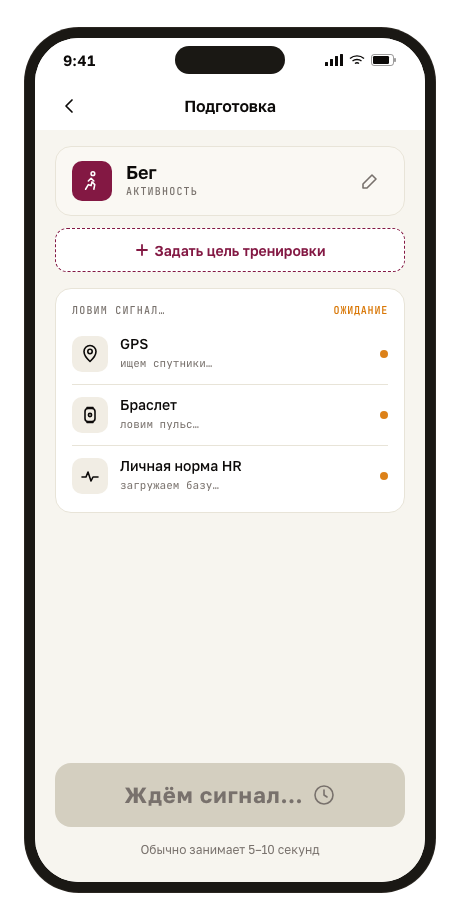
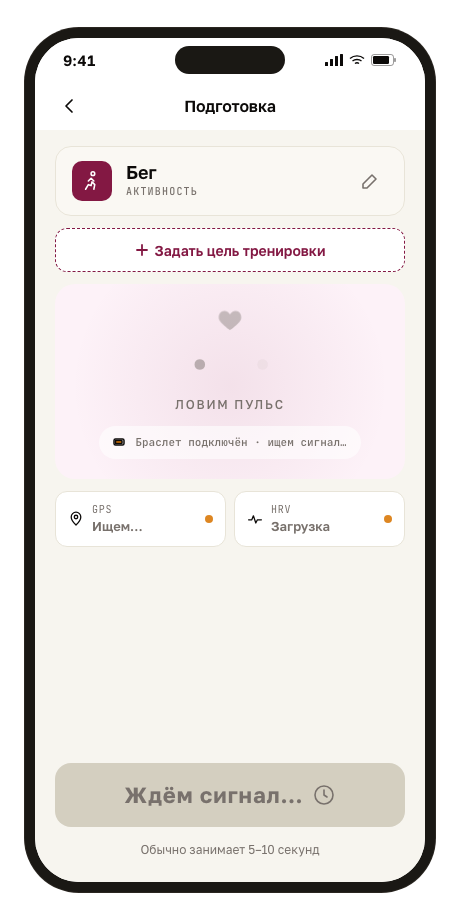
Задача #05 доп · Pulse Hero на 02b (SEARCHING + READY)
По референсу Whoop + фидбеку Дымова: перед стартом должен быть виден
текущий пульс — это обязательное условие. Реализовано как pulse-hero
компонент:

READY state (node 216:2):
- Wine tint background с radial glow
- Heart icon (wine, с pulse-анимацией)
- Огромное число BPM 72 (JetBrains Mono, 72px)
- Подпись 'УД · МИН'
- Мета-пилл 'Браслет 84% · ~5 ч' (с battery indicator)
- Compact GPS + HRV status pills (2 колонки вместо list)

SEARCHING state (node 1:13):
- Тот же pulse-hero, но в placeholder-state
- Dots animation вместо числа (···)
- 'Ловим пульс' + 'Браслет подключён · ищем сигнал…'

Layout стал более focused на primary metric (пульс) вместо
трёхстрочного readiness-list. Ссылки на referенс Whoop + скриншоты
PM в session logs.

diff --git a/docs_web/wireframes/m3/mobile-training-start-v0.html b/docs_web/wireframes/m3/mobile-training-start-v0.html
@@ -375,6 +375,101 @@
       100% { transform: scale(1.25); opacity: 0; }
     }
 
+    /* Pulse Hero — большой BPM display (Whoop-inspired, adapted to Pulse-DS) */
+    .pulse-hero {
+      position: relative;
+      background: var(--primary-soft);
+      border-radius: 20px;
+      padding: 24px 20px 20px;
+      display: flex;
+      flex-direction: column;
+      align-items: center;
+      gap: 4px;
+      overflow: hidden;
+    }
+    .pulse-hero::before {
+      /* Decorative radial glow */
+      content: '';
+      position: absolute;
+      top: -30%;
+      left: 50%;
+      transform: translateX(-50%);
+      width: 320px; height: 320px;
+      background: radial-gradient(circle, rgba(131, 24, 67, 0.08) 0%, transparent 70%);
+      pointer-events: none;
+    }
+    .pulse-hero .heart-icon {
+      color: var(--primary);
+      z-index: 1;
+      animation: heart-beat 1.4s ease-in-out infinite;
+    }
+    @keyframes heart-beat {
+      0%, 100% { transform: scale(1); }
+      20% { transform: scale(1.15); }
+      40% { transform: scale(1); }
+      60% { transform: scale(1.08); }
+      80% { transform: scale(1); }
+    }
+    .pulse-hero .bpm-num {
+      font-family: 'JetBrains Mono', ui-monospace, monospace;
+      font-weight: 700;
+      font-size: 72px;
+      letter-spacing: -0.04em;
+      color: var(--foreground);
+      line-height: 1;
+      font-variant-numeric: tabular-nums;
+      z-index: 1;
+    }
+    .pulse-hero .bpm-unit {
+      font-family: 'Golos Text', sans-serif;
+      font-weight: 500;
+      font-size: 12px;
+      letter-spacing: 0.15em;
+      text-transform: uppercase;
+      color: var(--muted-foreground);
+      z-index: 1;
+    }
+    .pulse-hero .bracelet-meta {
+      display: flex;
+      align-items: center;
+      gap: 8px;
+      padding: 8px 14px;
+      background: rgba(255, 255, 255, 0.6);
+      border-radius: 9999px;
+      margin-top: 8px;
+      z-index: 1;
+    }
+    .pulse-hero .bracelet-meta .mono {
+      font-size: 11px;
+      color: var(--foreground);
+      font-weight: 500;
+    }
+
+    /* Searching state — pulse-hero placeholder */
+    .pulse-hero.searching .bpm-num {
+      color: var(--muted-foreground);
+      font-size: 56px;
+    }
+    .pulse-hero.searching .heart-icon {
+      color: var(--muted-foreground);
+      opacity: 0.4;
+    }
+    .pulse-hero.searching .dots {
+      display: inline-block;
+    }
+    .pulse-hero.searching .dots span {
+      display: inline-block;
+      opacity: 0;
+      animation: dots-blink 1.4s infinite;
+    }
+    .pulse-hero.searching .dots span:nth-child(1) { animation-delay: 0s; }
+    .pulse-hero.searching .dots span:nth-child(2) { animation-delay: 0.2s; }
+    .pulse-hero.searching .dots span:nth-child(3) { animation-delay: 0.4s; }
+    @keyframes dots-blink {
+      0%, 100% { opacity: 0; }
+      50% { opacity: 1; }
+    }
+
     /* Goal Modal — bottom sheet */
     .sheet-backdrop {
       position: absolute;
@@ -701,45 +796,36 @@
               Задать цель тренировки
             </button>
 
-            <div style="background:var(--card); border:1px solid var(--border); border-radius:16px; padding: 4px 16px; margin-top:4px;">
-              <div style="padding: 10px 0 6px; display:flex; align-items:center; justify-content:space-between;">
-                <span class="eyebrow">Ловим сигнал…</span>
-                <span class="mono" style="font-size:10px; color:var(--warning); font-weight:600; letter-spacing:0.08em;">ОЖИДАНИЕ</span>
+            <!-- Pulse Hero — searching placeholder -->
+            <div class="pulse-hero searching">
+              <svg class="heart-icon" width="26" height="24" viewBox="0 0 24 24" fill="currentColor" aria-hidden="true">
+                <path d="M12 21s-7-4.5-9.5-9C1 8.5 3 4 7 4c2 0 4 1.5 5 3 1-1.5 3-3 5-3 4 0 6 4.5 4.5 8-2.5 4.5-9.5 9-9.5 9z"/>
+              </svg>
+              <div class="bpm-num"><span class="dots"><span>·</span><span>·</span><span>·</span></span></div>
+              <div class="bpm-unit">Ловим пульс</div>
+              <div class="bracelet-meta">
+                <svg width="14" height="14" viewBox="0 0 14 14" fill="none" stroke="var(--foreground)" stroke-width="1.5" stroke-linecap="round"><rect x="1" y="4" width="10" height="6" rx="1.5"/><rect x="2.5" y="5.5" width="6.5" height="3" rx="0.5" fill="var(--warning)"/></svg>
+                <span class="mono" style="color:var(--muted-foreground);">Браслет подключён · ищем сигнал…</span>
               </div>
+            </div>
 
-              <!-- GPS row -->
-              <div class="status-row">
-                <div class="status-icon" aria-hidden="true">
-                  <svg width="20" height="20" viewBox="0 0 20 20" fill="none" stroke="currentColor" stroke-width="1.6" stroke-linecap="round" stroke-linejoin="round"><path d="M10 17.5s-6-5.5-6-10a6 6 0 1 1 12 0c0 4.5-6 10-6 10z"/><circle cx="10" cy="7.5" r="2.2"/></svg>
+            <!-- Compact status pills — GPS + HRV baseline (waiting) -->
+            <div style="display:flex; gap:8px;">
+              <div style="flex:1; background:var(--card); border:1px solid var(--border); border-radius:12px; padding:10px 12px; display:flex; align-items:center; gap:8px;">
+                <svg width="16" height="16" viewBox="0 0 20 20" fill="none" stroke="var(--foreground)" stroke-width="1.6" stroke-linecap="round" stroke-linejoin="round"><path d="M10 17.5s-6-5.5-6-10a6 6 0 1 1 12 0c0 4.5-6 10-6 10z"/><circle cx="10" cy="7.5" r="2.2"/></svg>
+                <div style="flex:1;">
+                  <div class="mono" style="font-size:10px; color:var(--muted-foreground); letter-spacing:0.08em; text-transform:uppercase;">GPS</div>
+                  <div style="font-family:'Golos Text'; font-weight:600; font-size:13px; color:var(--muted-foreground);">Ищем…</div>
                 </div>
-                <div style="flex:1; min-width:0;">
-                  <div style="font-family:'Golos Text'; font-weight:500; font-size:14px; line-height:1.2;">GPS</div>
-                  <div class="mono" style="font-size:11px; color:var(--muted-foreground); margin-top:2px;">ищем спутники…</div>
-                </div>
-                <span class="status-dot wait" aria-label="Ожидание"></span>
+                <span class="status-dot wait"></span>
               </div>
-
-              <!-- Браслет row — животик анимация -->
-              <div class="status-row">
-                <div class="status-icon" aria-hidden="true">
-                  <svg width="20" height="20" viewBox="0 0 20 20" fill="none" stroke="currentColor" stroke-width="1.6" stroke-linecap="round" stroke-linejoin="round"><rect x="5" y="3.5" width="10" height="13" rx="3"/><path d="M7 2.5h6M7 17.5h6"/><circle cx="10" cy="10" r="1.6"/></svg>
+              <div style="flex:1; background:var(--card); border:1px solid var(--border); border-radius:12px; padding:10px 12px; display:flex; align-items:center; gap:8px;">
+                <svg width="16" height="16" viewBox="0 0 20 20" fill="none" stroke="var(--foreground)" stroke-width="1.6" stroke-linecap="round" stroke-linejoin="round"><path d="M2 11h4l2-5 3 9 2-4h5"/></svg>
+                <div style="flex:1;">
+                  <div class="mono" style="font-size:10px; color:var(--muted-foreground); letter-spacing:0.08em; text-transform:uppercase;">HRV</div>
+                  <div style="font-family:'Golos Text'; font-weight:600; font-size:13px; color:var(--muted-foreground);">Загрузка</div>
                 </div>
-                <div style="flex:1; min-width:0;">
-                  <div style="font-family:'Golos Text'; font-weight:500; font-size:14px; line-height:1.2;">Браслет</div>
-                  <div class="mono" style="font-size:11px; color:var(--muted-foreground); margin-top:2px;">ловим пульс…</div>
-                </div>
-                <span class="status-dot wait" aria-label="Ожидание"></span>
-              </div>
-
-              <div class="status-row" style="padding-bottom:14px;">
-                <div class="status-icon" aria-hidden="true">
-                  <svg width="20" height="20" viewBox="0 0 20 20" fill="none" stroke="currentColor" stroke-width="1.6" stroke-linecap="round" stroke-linejoin="round"><path d="M2 11h4l2-5 3 9 2-4h5"/></svg>
-                </div>
-                <div style="flex:1; min-width:0;">
-                  <div style="font-family:'Golos Text'; font-weight:500; font-size:14px; line-height:1.2;">Личная норма HR</div>
-                  <div class="mono" style="font-size:11px; color:var(--muted-foreground); margin-top:2px;">загружаем базу…</div>
-                </div>
-                <span class="status-dot wait" aria-label="Ожидание"></span>
+                <span class="status-dot wait"></span>
               </div>
             </div>
 
@@ -805,43 +891,36 @@
               Задать цель тренировки
             </button>
 
-            <div style="background:var(--card); border:1px solid var(--border); border-radius:16px; padding: 4px 16px; margin-top:4px;">
-              <div style="padding: 10px 0 6px; display:flex; align-items:center; justify-content:space-between;">
-                <span class="eyebrow">Готовность</span>
-                <span class="mono" style="font-size:10px; color:var(--success); font-weight:600; letter-spacing:0.08em;">ГОТОВО</span>
+            <!-- Pulse Hero — большой live BPM display -->
+            <div class="pulse-hero">
+              <svg class="heart-icon" width="26" height="24" viewBox="0 0 24 24" fill="currentColor" aria-hidden="true">
+                <path d="M12 21s-7-4.5-9.5-9C1 8.5 3 4 7 4c2 0 4 1.5 5 3 1-1.5 3-3 5-3 4 0 6 4.5 4.5 8-2.5 4.5-9.5 9-9.5 9z"/>
+              </svg>
+              <div class="bpm-num">72</div>
+              <div class="bpm-unit">уд · мин</div>
+              <div class="bracelet-meta">
+                <svg width="14" height="14" viewBox="0 0 14 14" fill="none" stroke="var(--foreground)" stroke-width="1.5" stroke-linecap="round"><rect x="1" y="4" width="10" height="6" rx="1.5"/><rect x="2.5" y="5.5" width="6.5" height="3" rx="0.5" fill="var(--success)"/><rect x="11.5" y="5.5" width="1.5" height="3" rx="0.5" fill="var(--foreground)"/></svg>
+                <span class="mono">Браслет 84% · ~5 ч</span>
               </div>
+            </div>
 
-              <div class="status-row">
-                <div class="status-icon" aria-hidden="true">
-                  <svg width="20" height="20" viewBox="0 0 20 20" fill="none" stroke="currentColor" stroke-width="1.6" stroke-linecap="round" stroke-linejoin="round"><path d="M10 17.5s-6-5.5-6-10a6 6 0 1 1 12 0c0 4.5-6 10-6 10z"/><circle cx="10" cy="7.5" r="2.2"/></svg>
+            <!-- Compact status pills — GPS + HRV baseline -->
+            <div style="display:flex; gap:8px;">
+              <div style="flex:1; background:var(--card); border:1px solid var(--border); border-radius:12px; padding:10px 12px; display:flex; align-items:center; gap:8px;">
+                <svg width="16" height="16" viewBox="0 0 20 20" fill="none" stroke="var(--foreground)" stroke-width="1.6" stroke-linecap="round" stroke-linejoin="round"><path d="M10 17.5s-6-5.5-6-10a6 6 0 1 1 12 0c0 4.5-6 10-6 10z"/><circle cx="10" cy="7.5" r="2.2"/></svg>
+                <div style="flex:1;">
+                  <div class="mono" style="font-size:10px; color:var(--muted-foreground); letter-spacing:0.08em; text-transform:uppercase;">GPS</div>
+                  <div style="font-family:'Golos Text'; font-weight:600; font-size:13px;">Захвачен</div>
                 </div>
-                <div style="flex:1; min-width:0;">
-                  <div style="font-family:'Golos Text'; font-weight:500; font-size:14px; line-height:1.2;">GPS</div>
-                  <div class="mono" style="font-size:11px; color:var(--muted-foreground); margin-top:2px;">захвачен · точность 5м</div>
-                </div>
-                <span class="status-dot ok" aria-label="Готово"></span>
+                <span class="status-dot ok"></span>
               </div>
-
-              <div class="status-row">
-                <div class="status-icon" aria-hidden="true">
-                  <svg width="20" height="20" viewBox="0 0 20 20" fill="none" stroke="currentColor" stroke-width="1.6" stroke-linecap="round" stroke-linejoin="round"><rect x="5" y="3.5" width="10" height="13" rx="3"/><path d="M7 2.5h6M7 17.5h6"/><circle cx="10" cy="10" r="1.6"/></svg>
+              <div style="flex:1; background:var(--card); border:1px solid var(--border); border-radius:12px; padding:10px 12px; display:flex; align-items:center; gap:8px;">
+                <svg width="16" height="16" viewBox="0 0 20 20" fill="none" stroke="var(--foreground)" stroke-width="1.6" stroke-linecap="round" stroke-linejoin="round"><path d="M2 11h4l2-5 3 9 2-4h5"/></svg>
+                <div style="flex:1;">
+                  <div class="mono" style="font-size:10px; color:var(--muted-foreground); letter-spacing:0.08em; text-transform:uppercase;">HRV</div>
+                  <div style="font-family:'Golos Text'; font-weight:600; font-size:13px;">47 ms</div>
                 </div>
-                <div style="flex:1; min-width:0;">
-                  <div style="font-family:'Golos Text'; font-weight:500; font-size:14px; line-height:1.2;">Браслет</div>
-                  <div class="mono" style="font-size:11px; color:var(--muted-foreground); margin-top:2px;">подключён · HR 68</div>
-                </div>
-                <span class="status-dot ok" aria-label="Готово"></span>
-              </div>
-
-              <div class="status-row" style="padding-bottom:14px;">
-                <div class="status-icon" aria-hidden="true">
-                  <svg width="20" height="20" viewBox="0 0 20 20" fill="none" stroke="currentColor" stroke-width="1.6" stroke-linecap="round" stroke-linejoin="round"><path d="M2 11h4l2-5 3 9 2-4h5"/></svg>
-                </div>
-                <div style="flex:1; min-width:0;">
-                  <div style="font-family:'Golos Text'; font-weight:500; font-size:14px; line-height:1.2;">Личная норма HR</div>
-                  <div class="mono" style="font-size:11px; color:var(--muted-foreground); margin-top:2px;">47 ms · сегодня</div>
-                </div>
-                <span class="status-dot ok" aria-label="Готово"></span>
+                <span class="status-dot ok"></span>
               </div>
             </div>
 